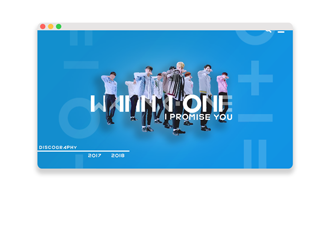
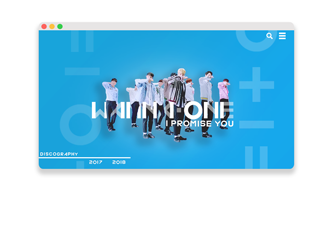
add project pages

diff --git a/proj-brew-blendz.html b/proj-brew-blendz.html
@@ -1,0 +1,75 @@
+<!DOCTYPE html>
+<html lang="en">
+<head>
+  <title>ᴅᴇᴠᴇʟᴏᴘ & ᴄᴏɴǫᴜᴇʀ | ʙʀᴇᴡ & ʙʟᴇɴᴅᴢ</title>
+  <meta charset="utf-8">
+  <meta name="viewport" content="width=device-width, initial-scale=1">
+  <link rel="stylesheet" href="https://maxcdn.bootstrapcdn.com/bootstrap/3.3.7/css/bootstrap.min.css">
+  <link href="https://fonts.googleapis.com/css?family=Montserrat:300,400,500,700,800" rel="stylesheet">
+  
+  <script src="https://ajax.googleapis.com/ajax/libs/jquery/3.2.1/jquery.min.js"></script>
+  <script src="https://maxcdn.bootstrapcdn.com/bootstrap/3.3.7/js/bootstrap.min.js"></script>
+
+  <!-- Style-CSS -->
+  <link rel="stylesheet" type="text/css" href="project-styles.css" /> 
+  <link rel="stylesheet" type="text/css" href="styles.css" /> 
+  <link href="css/bootstrap.css" rel="stylesheet" type="text/css" media="all" /> 
+  <!-- Bootstrap-Core-CSS -->
+
+</head>
+<body>
+
+  <div class="topbar" style="background-image: url('images/marble-2371776_1920.jpg')"></div>
+
+  <div class="navbar-container">
+    <div class="blue-bar">
+      <h1 class="name-container"><a href="/about">hi there, i'm charlie.</a></h1>
+    </div>
+    <div class="text-bar">
+      <h2>software developer</br>
+        & ui / ux designer</br>
+        in calgary, ab, canada
+      </h2>
+      <a href="https://github.com/charliecheung" target="_blank"><img src="images/github.png" alt="github" /></a>
+      <a href="https://www.instagram.com/ccktcch/" target="_blank"><img src="images/instagram.png" alt="instagram" /></a>
+      <a href="https://ca.linkedin.com/in/charlie-cheung" target="_blank"><img src="images/linkedin.png" alt="linkedin" /></a>
+      <a href="https://www.charliecheung.com/contact"><img src="images/email.png" alt="email" /></a>
+    </div>
+    <div class="links-container">
+      <a href="https://www.charliecheung.com/">home</a>
+      <a href="https://www.charliecheung.com/about">about</a>
+      <a href="https://medium.com/@charliektcheung" target="_blank">blog</a>
+      <a href="https://www.charliecheung.com/contact">contact</a>
+      <a href="https://www.dropbox.com/s/8ibvqiuuplkn8et/CharlieCheungCVResume.pdf?dl=0" target="_blank">resume</a>
+    </div>
+  </div>
+
+<div class="project">
+  <h3>brew & blendz</br> web application</h3>
+  <hr/>
+  <img src="images/projects/brew-and-blendz-title.png" alt="brew and blendz web application">
+</br>
+  <div class="project-links">
+    <a href="https://github.com/charliecheung/brewAndBlendApplication" target="_blank">github</a>
+    <a href="https://www.dropbox.com/s/7qlmbl7ill018en/Brew%20%26%20Blendz%20Design%20Doc.pdf?dl=0" target="_blank" style="width: 180px">UX design doc</a>
+  </div>
+</br>
+  <h3>project overview</h3>
+  <hr />
+  <p>Brew & Blendz is a smoothie and coffee café located at the University of Calgary catering to theUniversity community. The café specializes in breakfast type foods, coffee, and customizable smoothies.These items can be customized even further through added ingredients called “Boosts” which can be added or left out depending on the customer. The cafe is open seven days a week though its hours are reduced during the weekends and spring/summer break. Brew & Blendz currently has two locations on campus: one inside the Kinesiology building and one inside of Scurfield Hall. Since the two locations oncampus are convenient to most of the University community, the cafe has become popular with both students and professors. The cafe is especially popular with students living on Residents and frequent gym users. Due to the popularity of Brew & Blendz, the cafe has a tendency to have long line ups especially during its peak hours, from 6am to 1pm. With the inability to serve its customers at a rapid pace, students and professors rushing between classes tend to leave the lineup or not line up at all. Thus, causing Brew & Blendz to lose customers.</p>
+  <p>
+    This design for an interactive menu attempted to make ordering at Brew & Blendz faster by allowing users to select items to add to an order and pay through the same interface. In our design doc, we worked through a process that included considerations to the scope, expected uses of the system, and system constraints. Our methodology highlighted the typical and conditional users for the application and broke down their expected tasks so that we can gather our list of requirements. This final design is the result of the walkthroughs and prototypes we created.
+  </p>
+  <h3>technologies</h3>
+  <hr/>
+  <h4>Visual Studio, C#, Adobe Photoshop, Adobe Illustrator</h4>
+</br>
+</div>
+
+<div class="footer">
+  d e v e l o p & conquer. <br />
+  © charlie cheung 2018
+</div>
+
+</body>
+</html>

diff --git a/proj-vizworx-landing.html b/proj-vizworx-landing.html
@@ -1,7 +1,7 @@
 <!DOCTYPE html>
 <html lang="en">
 <head>
-  <title>ᴅᴇᴠᴇʟᴏᴘ & ᴄᴏɴǫᴜᴇʀ</title>
+  <title>ᴅᴇᴠᴇʟᴏᴘ & ᴄᴏɴǫᴜᴇʀ | ᴠɪᴢᴡᴏʀx ʟᴀɴᴅɪɴɢ ᴘᴀɢᴇ</title>
   <meta charset="utf-8">
   <meta name="viewport" content="width=device-width, initial-scale=1">
   <link rel="stylesheet" href="https://maxcdn.bootstrapcdn.com/bootstrap/3.3.7/css/bootstrap.min.css">
@@ -11,6 +11,7 @@
   <script src="https://maxcdn.bootstrapcdn.com/bootstrap/3.3.7/js/bootstrap.min.js"></script>
 
   <!-- Style-CSS -->
+  <link rel="stylesheet" type="text/css" href="project-styles.css" /> 
   <link rel="stylesheet" type="text/css" href="styles.css" /> 
   <link href="css/bootstrap.css" rel="stylesheet" type="text/css" media="all" /> 
   <!-- Bootstrap-Core-CSS -->
@@ -43,51 +44,18 @@
     </div>
   </div>
 
-<div class="container">
-  <a href="/proj-pipeline-incidents" target="_blank">
-    <div class="portfolio" style="background-image: url('images/portfolio-cover/pipeline-incidents-portfolio-cover.png');">
-      <div class="portfolio-title" style="background-image: url('images/marble-2371776_1920.jpg');">
-        <span>pipeline incidents</span>
-      </div>
-    </div>
-  </a>
-  <a href="/proj-imports-exports" target="_blank">
-    <div class="portfolio" style="background-image: url('images/portfolio-cover/imports-exports-portfolio-cover.png')">
-      <div class="portfolio-title" style="background-image: url('images/marble-2371776_1920.jpg');">
-        <span>imports and exports</span>
-      </div>
-    </div>
-  </a>
+<div class="project">
+  <h3>vizworx landing page</h3>
+  <hr/>
+  <img src="images/projects/vizworx-landing.PNG" alt="vizworx landing page">
 </br>
-  <a href="/proj-mari-bakeshop" target="_blank">
-    <div class="portfolio" style="background-image: url('images/portfolio-cover/mari-bakeshop-portfolio-title.png')">
-      <div class="portfolio-title" style="background-image: url('images/marble-2371776_1920.jpg');">
-        <span>mari bakeshop</span>
-      </div>
-    </div>
-  </a>
-  <a href="/proj-vizworx-landing" target="_blank">
-    <div class="portfolio" style="background-image: url('images/portfolio-cover/vizworx-landing-portfolio-cover.png')">
-      <div class="portfolio-title" style="background-image: url('images/marble-2371776_1920.jpg');">
-        <span>vizworx landing page</span>
-      </div>
-    </div>
-  </a>
+  <h3>project overview</h3>
+  <hr />
+  <p>This is a mock up design of the VizworX company landing page. When creating this, I wanted to keep in mind the three areas of expertise VizworX offers: development in augmented reality, virtual reality, and data visualizations. The website highlights VizworX's geospatial system, GeoViz and a child website for VizworX AR. This page is meant to serve as a landing page for a scroll down single page website.</p>
+  <h3>technologies</h3>
+  <hr/>
+  <h4>Adobe Photoshop and Adobe Illustrator</h4>
 </br>
-  <a href="/proj-brew-blendz" target="_blank">
-    <div class="portfolio" style="background-image: url('images/portfolio-cover/brew-blendz-portfolio-cover.png')">
-      <div class="portfolio-title" style="background-image: url('images/marble-2371776_1920.jpg');">
-        <span>brew & blendz</span>
-      </div>
-    </div>
-  </a>
-  <a href="/proj-wanna-one-landing" target="_blank">
-    <div class="portfolio" style="background-image: url('images/portfolio-cover/wanna-one-portfolio-cover.png')">
-      <div class="portfolio-title" style="background-image: url('images/marble-2371776_1920.jpg');">
-        <span>wanna one landing page</span>
-      </div>
-    </div>
-  </a>
 </div>
 
 <div class="footer">

diff --git a/proj-wanna-one-landing.html b/proj-wanna-one-landing.html
@@ -1,7 +1,7 @@
 <!DOCTYPE html>
 <html lang="en">
 <head>
-  <title>ᴅᴇᴠᴇʟᴏᴘ & ᴄᴏɴǫᴜᴇʀ</title>
+  <title>ᴅᴇᴠᴇʟᴏᴘ & ᴄᴏɴǫᴜᴇʀ | ᴡᴀɴɴᴀ ᴏɴᴇ ʟᴀɴᴅɪɴɢ ᴘᴀɢᴇ</title>
   <meta charset="utf-8">
   <meta name="viewport" content="width=device-width, initial-scale=1">
   <link rel="stylesheet" href="https://maxcdn.bootstrapcdn.com/bootstrap/3.3.7/css/bootstrap.min.css">
@@ -11,6 +11,7 @@
   <script src="https://maxcdn.bootstrapcdn.com/bootstrap/3.3.7/js/bootstrap.min.js"></script>
 
   <!-- Style-CSS -->
+  <link rel="stylesheet" type="text/css" href="project-styles.css" /> 
   <link rel="stylesheet" type="text/css" href="styles.css" /> 
   <link href="css/bootstrap.css" rel="stylesheet" type="text/css" media="all" /> 
   <!-- Bootstrap-Core-CSS -->
@@ -43,51 +44,18 @@
     </div>
   </div>
 
-<div class="container">
-  <a href="/proj-pipeline-incidents" target="_blank">
-    <div class="portfolio" style="background-image: url('images/portfolio-cover/pipeline-incidents-portfolio-cover.png');">
-      <div class="portfolio-title" style="background-image: url('images/marble-2371776_1920.jpg');">
-        <span>pipeline incidents</span>
-      </div>
-    </div>
-  </a>
-  <a href="/proj-imports-exports" target="_blank">
-    <div class="portfolio" style="background-image: url('images/portfolio-cover/imports-exports-portfolio-cover.png')">
-      <div class="portfolio-title" style="background-image: url('images/marble-2371776_1920.jpg');">
-        <span>imports and exports</span>
-      </div>
-    </div>
-  </a>
+<div class="project">
+  <h3>wanna one</br>landing page</h3>
+  <hr/>
+  <img src="images/projects/wanna-one-title.png" alt="wanna one landing page">
 </br>
-  <a href="/proj-mari-bakeshop" target="_blank">
-    <div class="portfolio" style="background-image: url('images/portfolio-cover/mari-bakeshop-portfolio-title.png')">
-      <div class="portfolio-title" style="background-image: url('images/marble-2371776_1920.jpg');">
-        <span>mari bakeshop</span>
-      </div>
-    </div>
-  </a>
-  <a href="/proj-vizworx-landing" target="_blank">
-    <div class="portfolio" style="background-image: url('images/portfolio-cover/vizworx-landing-portfolio-cover.png')">
-      <div class="portfolio-title" style="background-image: url('images/marble-2371776_1920.jpg');">
-        <span>vizworx landing page</span>
-      </div>
-    </div>
-  </a>
+  <h3>project overview</h3>
+  <hr />
+  <p>This is a mock up design for Korean group, Wanna One and their single, I.P.U. This landing page was inspired by their promotional video for their single and highlights the overarching theme of symbols and binary that have ranged across their discography starting from 2017.</p>
+  <h3>technologies</h3>
+  <hr/>
+  <h4>Adobe Photoshop and Adobe Illustrator</h4>
 </br>
-  <a href="/proj-brew-blendz" target="_blank">
-    <div class="portfolio" style="background-image: url('images/portfolio-cover/brew-blendz-portfolio-cover.png')">
-      <div class="portfolio-title" style="background-image: url('images/marble-2371776_1920.jpg');">
-        <span>brew & blendz</span>
-      </div>
-    </div>
-  </a>
-  <a href="/proj-wanna-one-landing" target="_blank">
-    <div class="portfolio" style="background-image: url('images/portfolio-cover/wanna-one-portfolio-cover.png')">
-      <div class="portfolio-title" style="background-image: url('images/marble-2371776_1920.jpg');">
-        <span>wanna one landing page</span>
-      </div>
-    </div>
-  </a>
 </div>
 
 <div class="footer">
